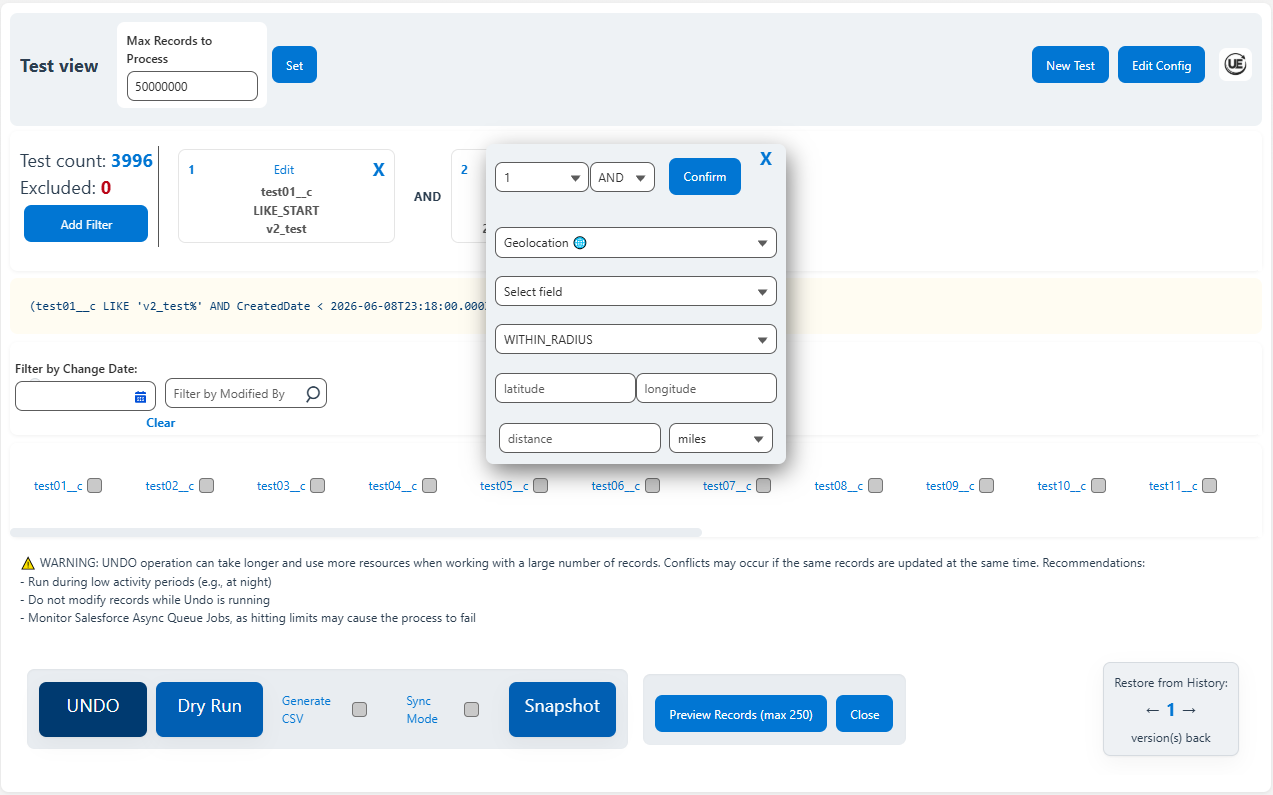
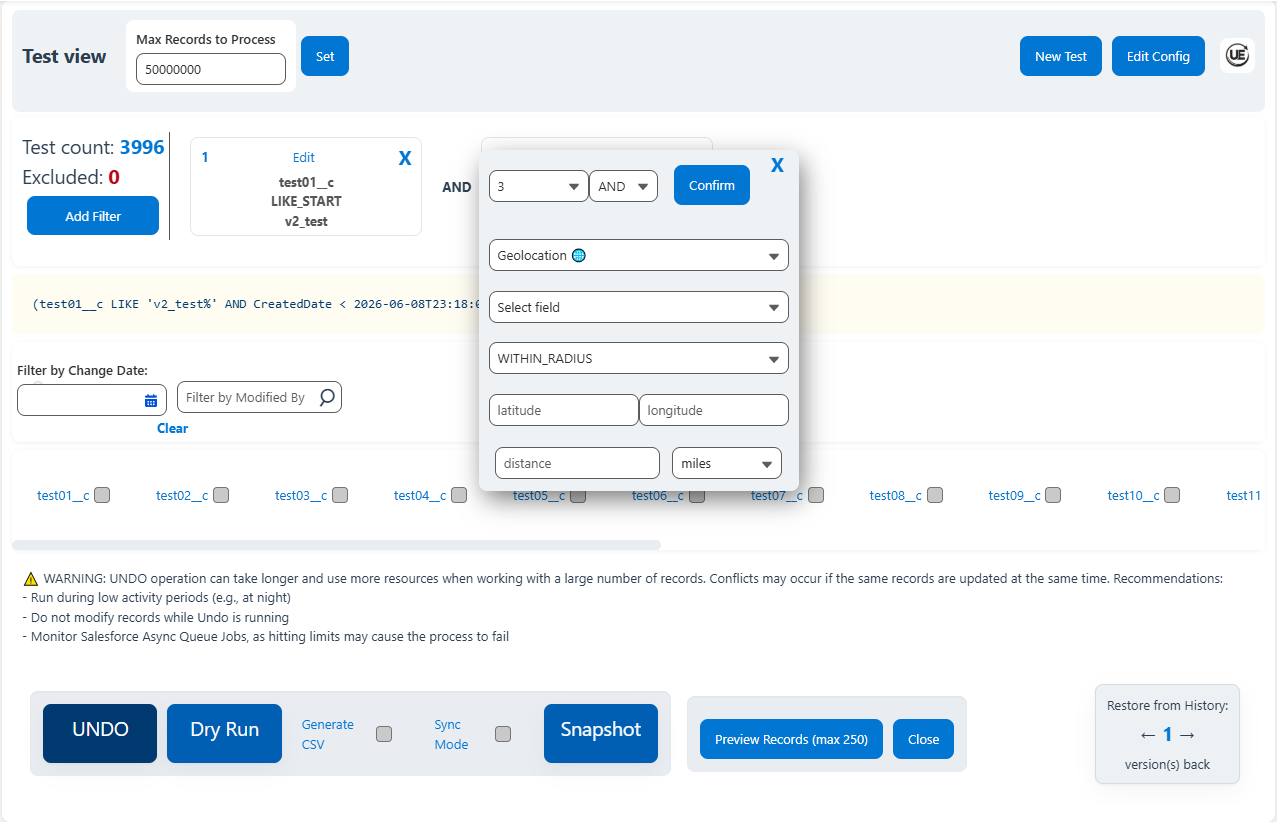
a

diff --git a/index.html b/index.html
@@ -478,14 +478,14 @@
             <div class="install-block">
                 <h3>Sandbox Org</h3>
 
-                <a href="https://test.salesforce.com/packaging/installPackage.apexp?p0=04tg50000008iGn" target="_blank" class="primary-btn">
+                <a href="https://test.salesforce.com/packaging/installPackage.apexp?p0=04tg50000008iNF" target="_blank" class="primary-btn">
                    Open Sandbox Installation
                 </a>
 
                 <p>
                     Installation URL:
                     <span id="sandbox-url" class="feature-highlight allow-select">
-                        https://test.salesforce.com/packaging/installPackage.apexp?p0=04tg50000008iGn
+                        https://test.salesforce.com/packaging/installPackage.apexp?p0=04tg50000008iNF
                     </span>
 
                 </p>
